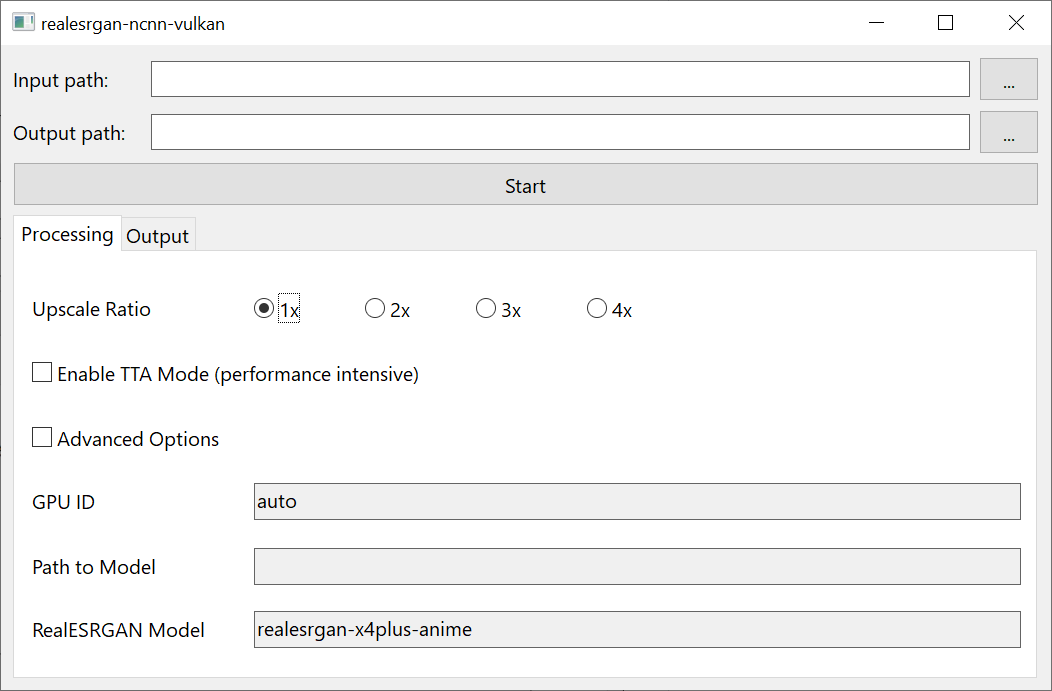
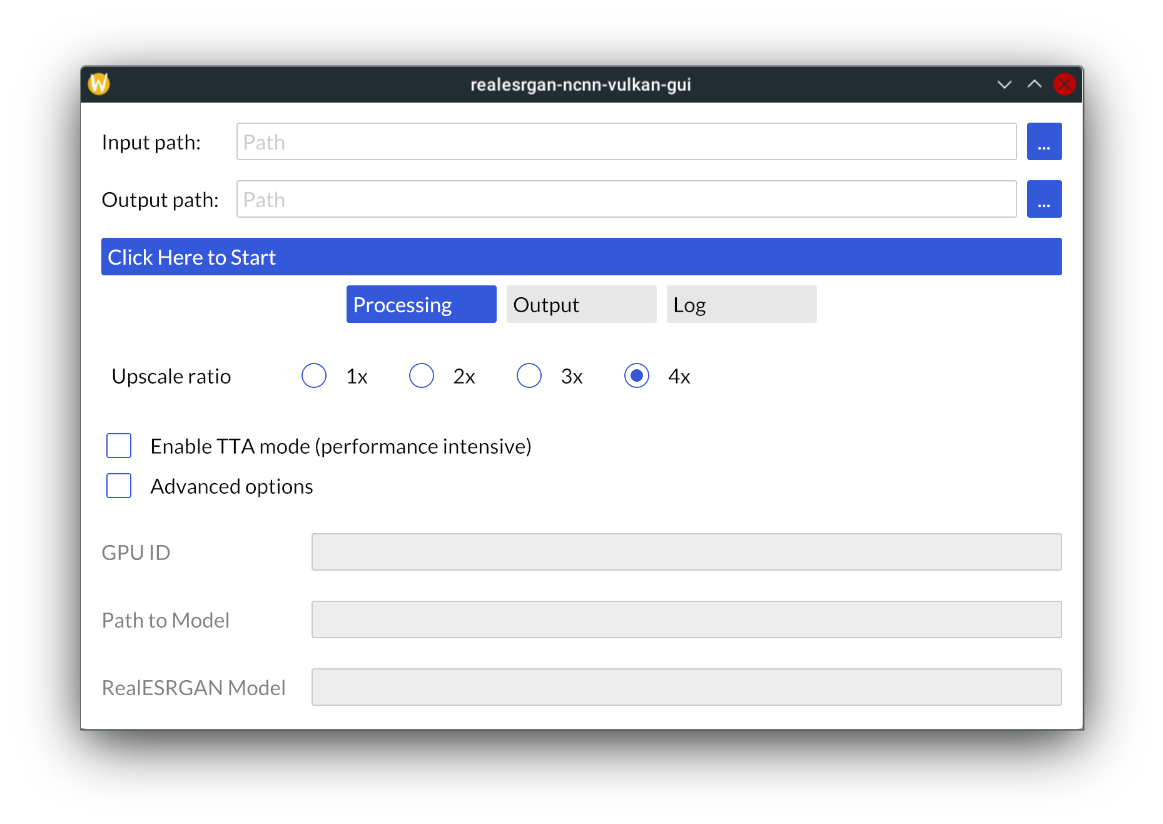
update README.md for the new interface

diff --git a/README.md b/README.md
@@ -1,16 +1,16 @@
 # realesrgan-ncnn-vulkan-gui
 
-A Win32 GUI for [Real-ESRGAN-ncnn-vulkan](https://github.com/xinntao/Real-ESRGAN-ncnn-vulkan).
+A simple GUI for [Real-ESRGAN-ncnn-vulkan](https://github.com/xinntao/Real-ESRGAN-ncnn-vulkan).
 
-Essentially the same as [waifu2x-ncnn-vulkan-gui](https://github.com/hch12907/waifu2x-ncnn-vulkan-gui),
-just a little modified.
+For the legacy version (which uses the native Win32 API for GUI), check out the `legacy` branch.
 
 ![screenshot](./screenshot.png)
 
 ## Usage
 
-1. `cargo build` the project.
-2. Copy the resulting `realesrgan-ncnn-vulkan-gui.exe` into `realesrgan-ncnn-vulkan`'s
-   main directory.
-3. Rename `realesrgan-ncnn-vulkan.exe` into `realesrgan-ncnn-vulkan-cli.exe`.
-4. Voila! Just run `realesrgan-ncnn-vulkan-gui.exe` and you should see a GUI popping up.
+1. Download the original `realesrgan-ncnn-vulkan` executable and models.
+2. `cargo build` the project.
+3. Copy the resulting `realesrgan-ncnn-vulkan-gui` in `target/debug` or `target/release`
+   into `realesrgan-ncnn-vulkan`'s main directory.
+4. Rename `realesrgan-ncnn-vulkan` into `realesrgan-ncnn-vulkan-cli`.
+5. Voila! Just run `realesrgan-ncnn-vulkan-gui` and you should see a GUI popping up.
